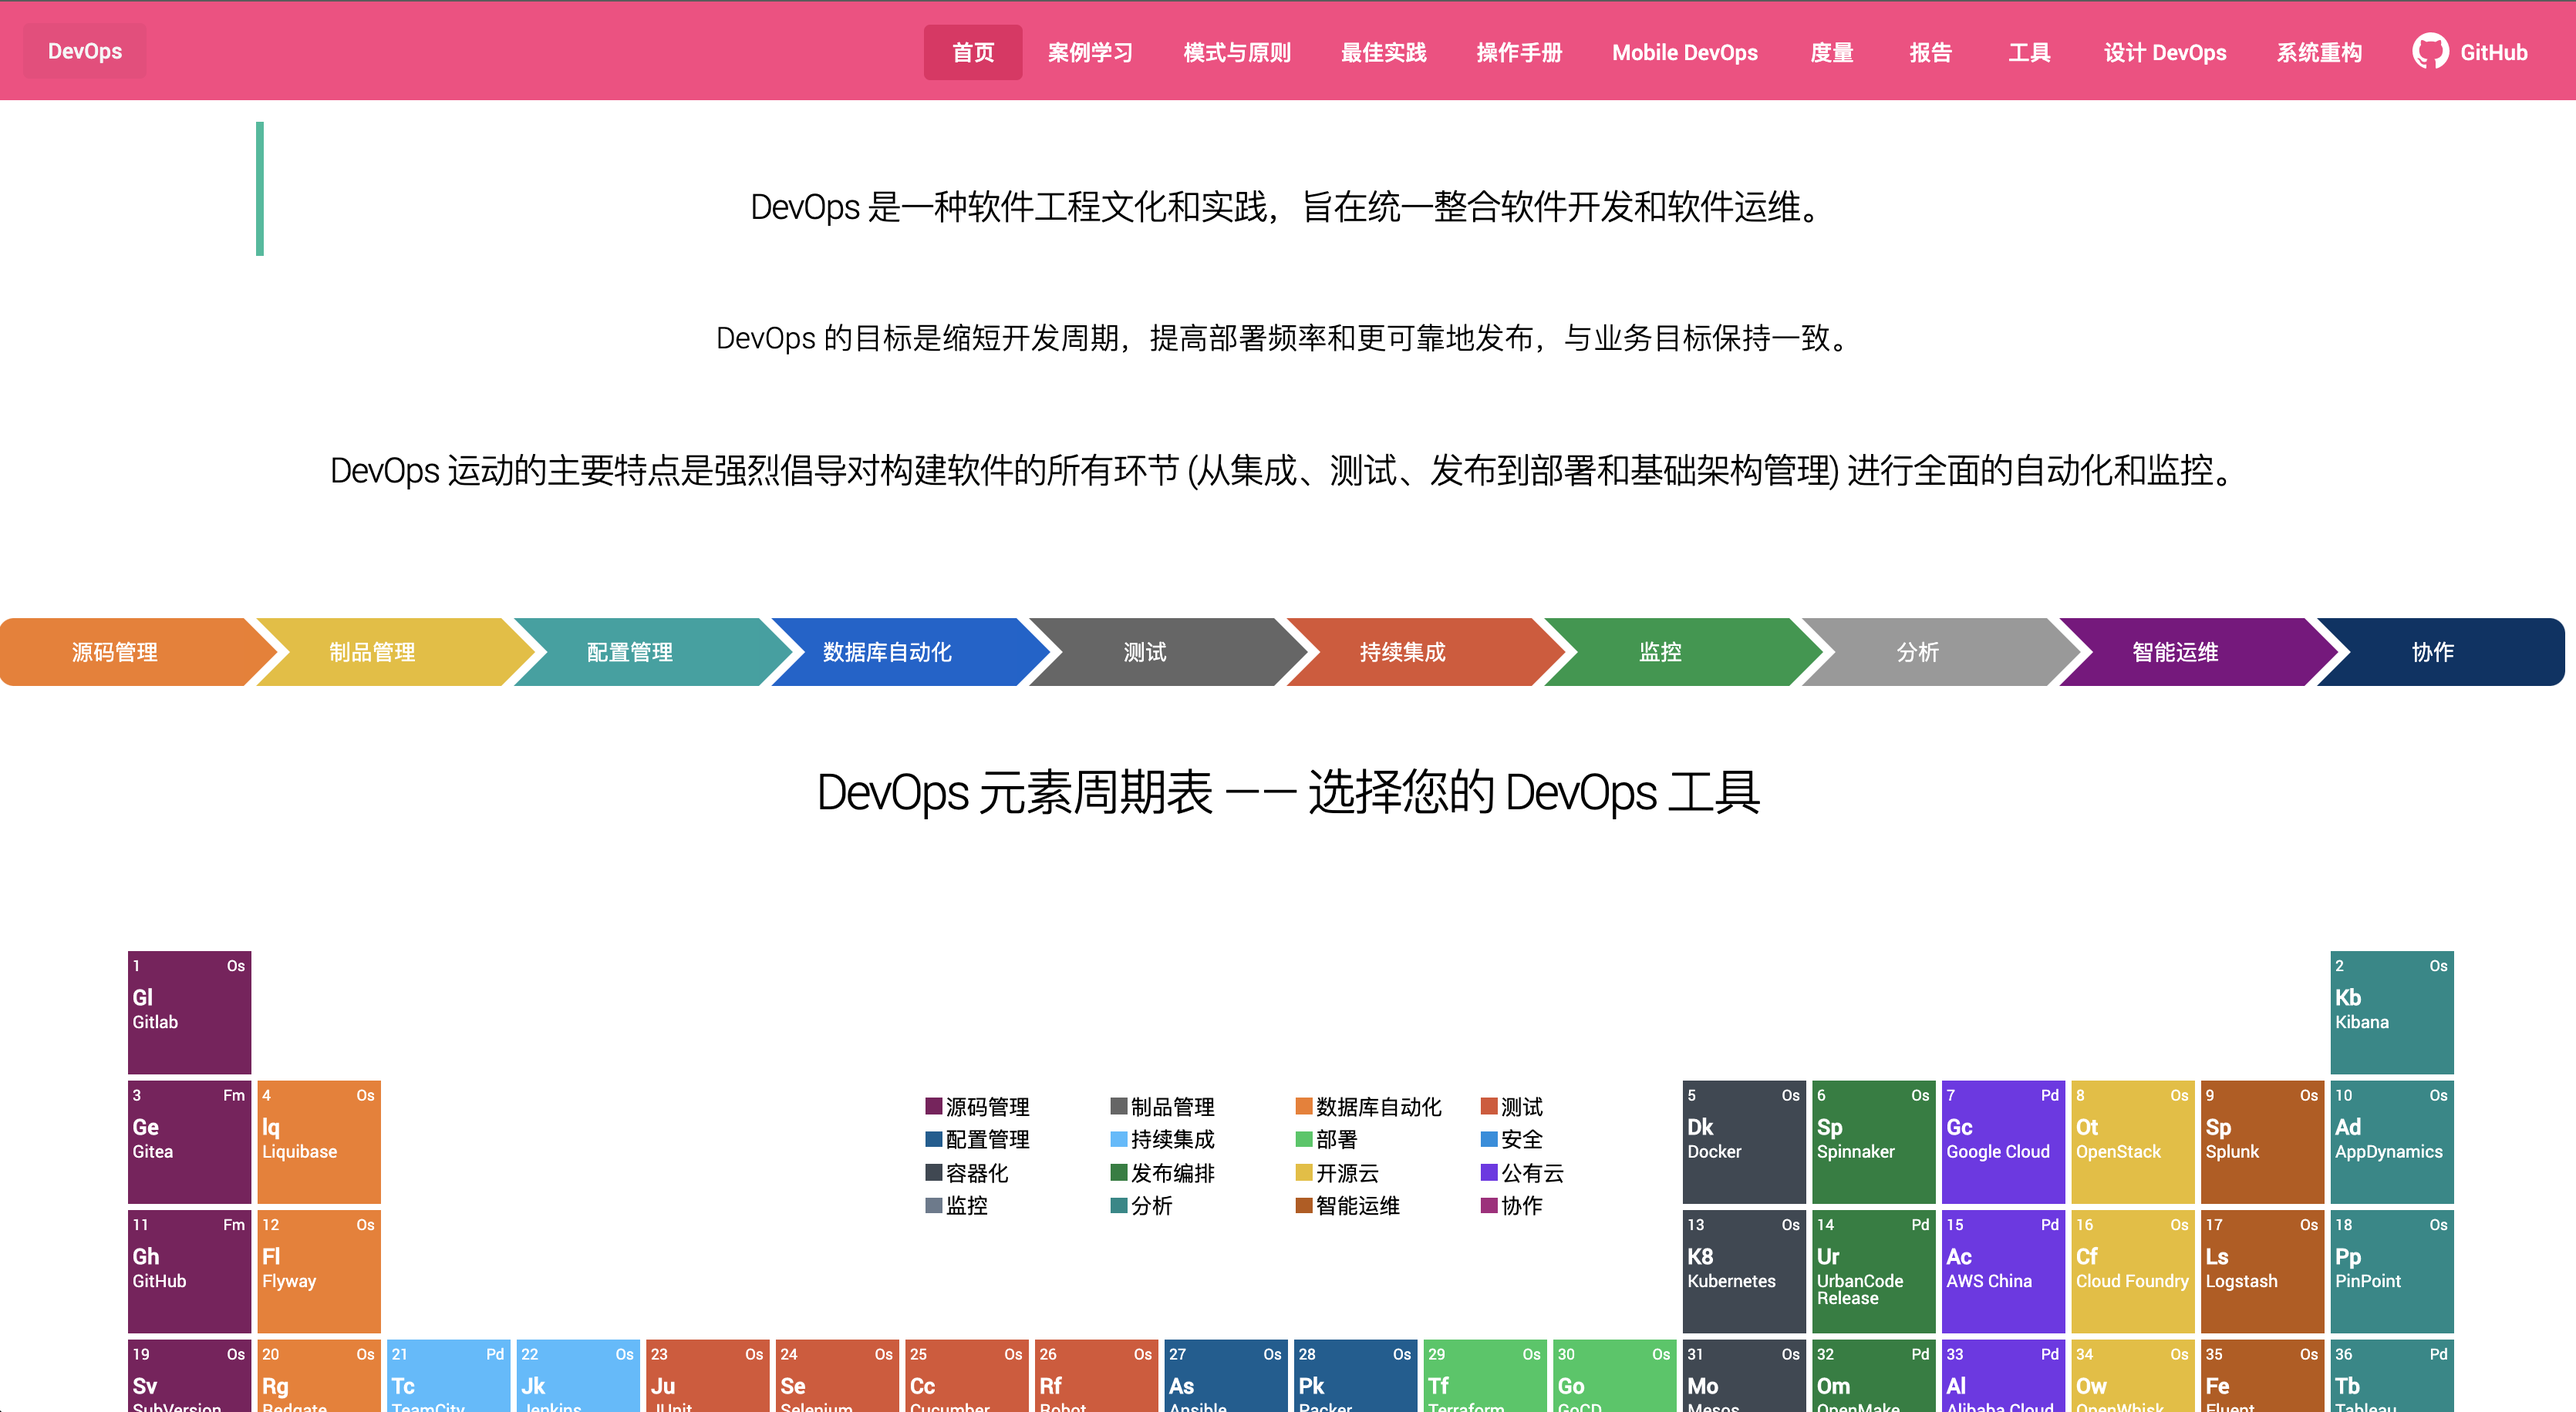
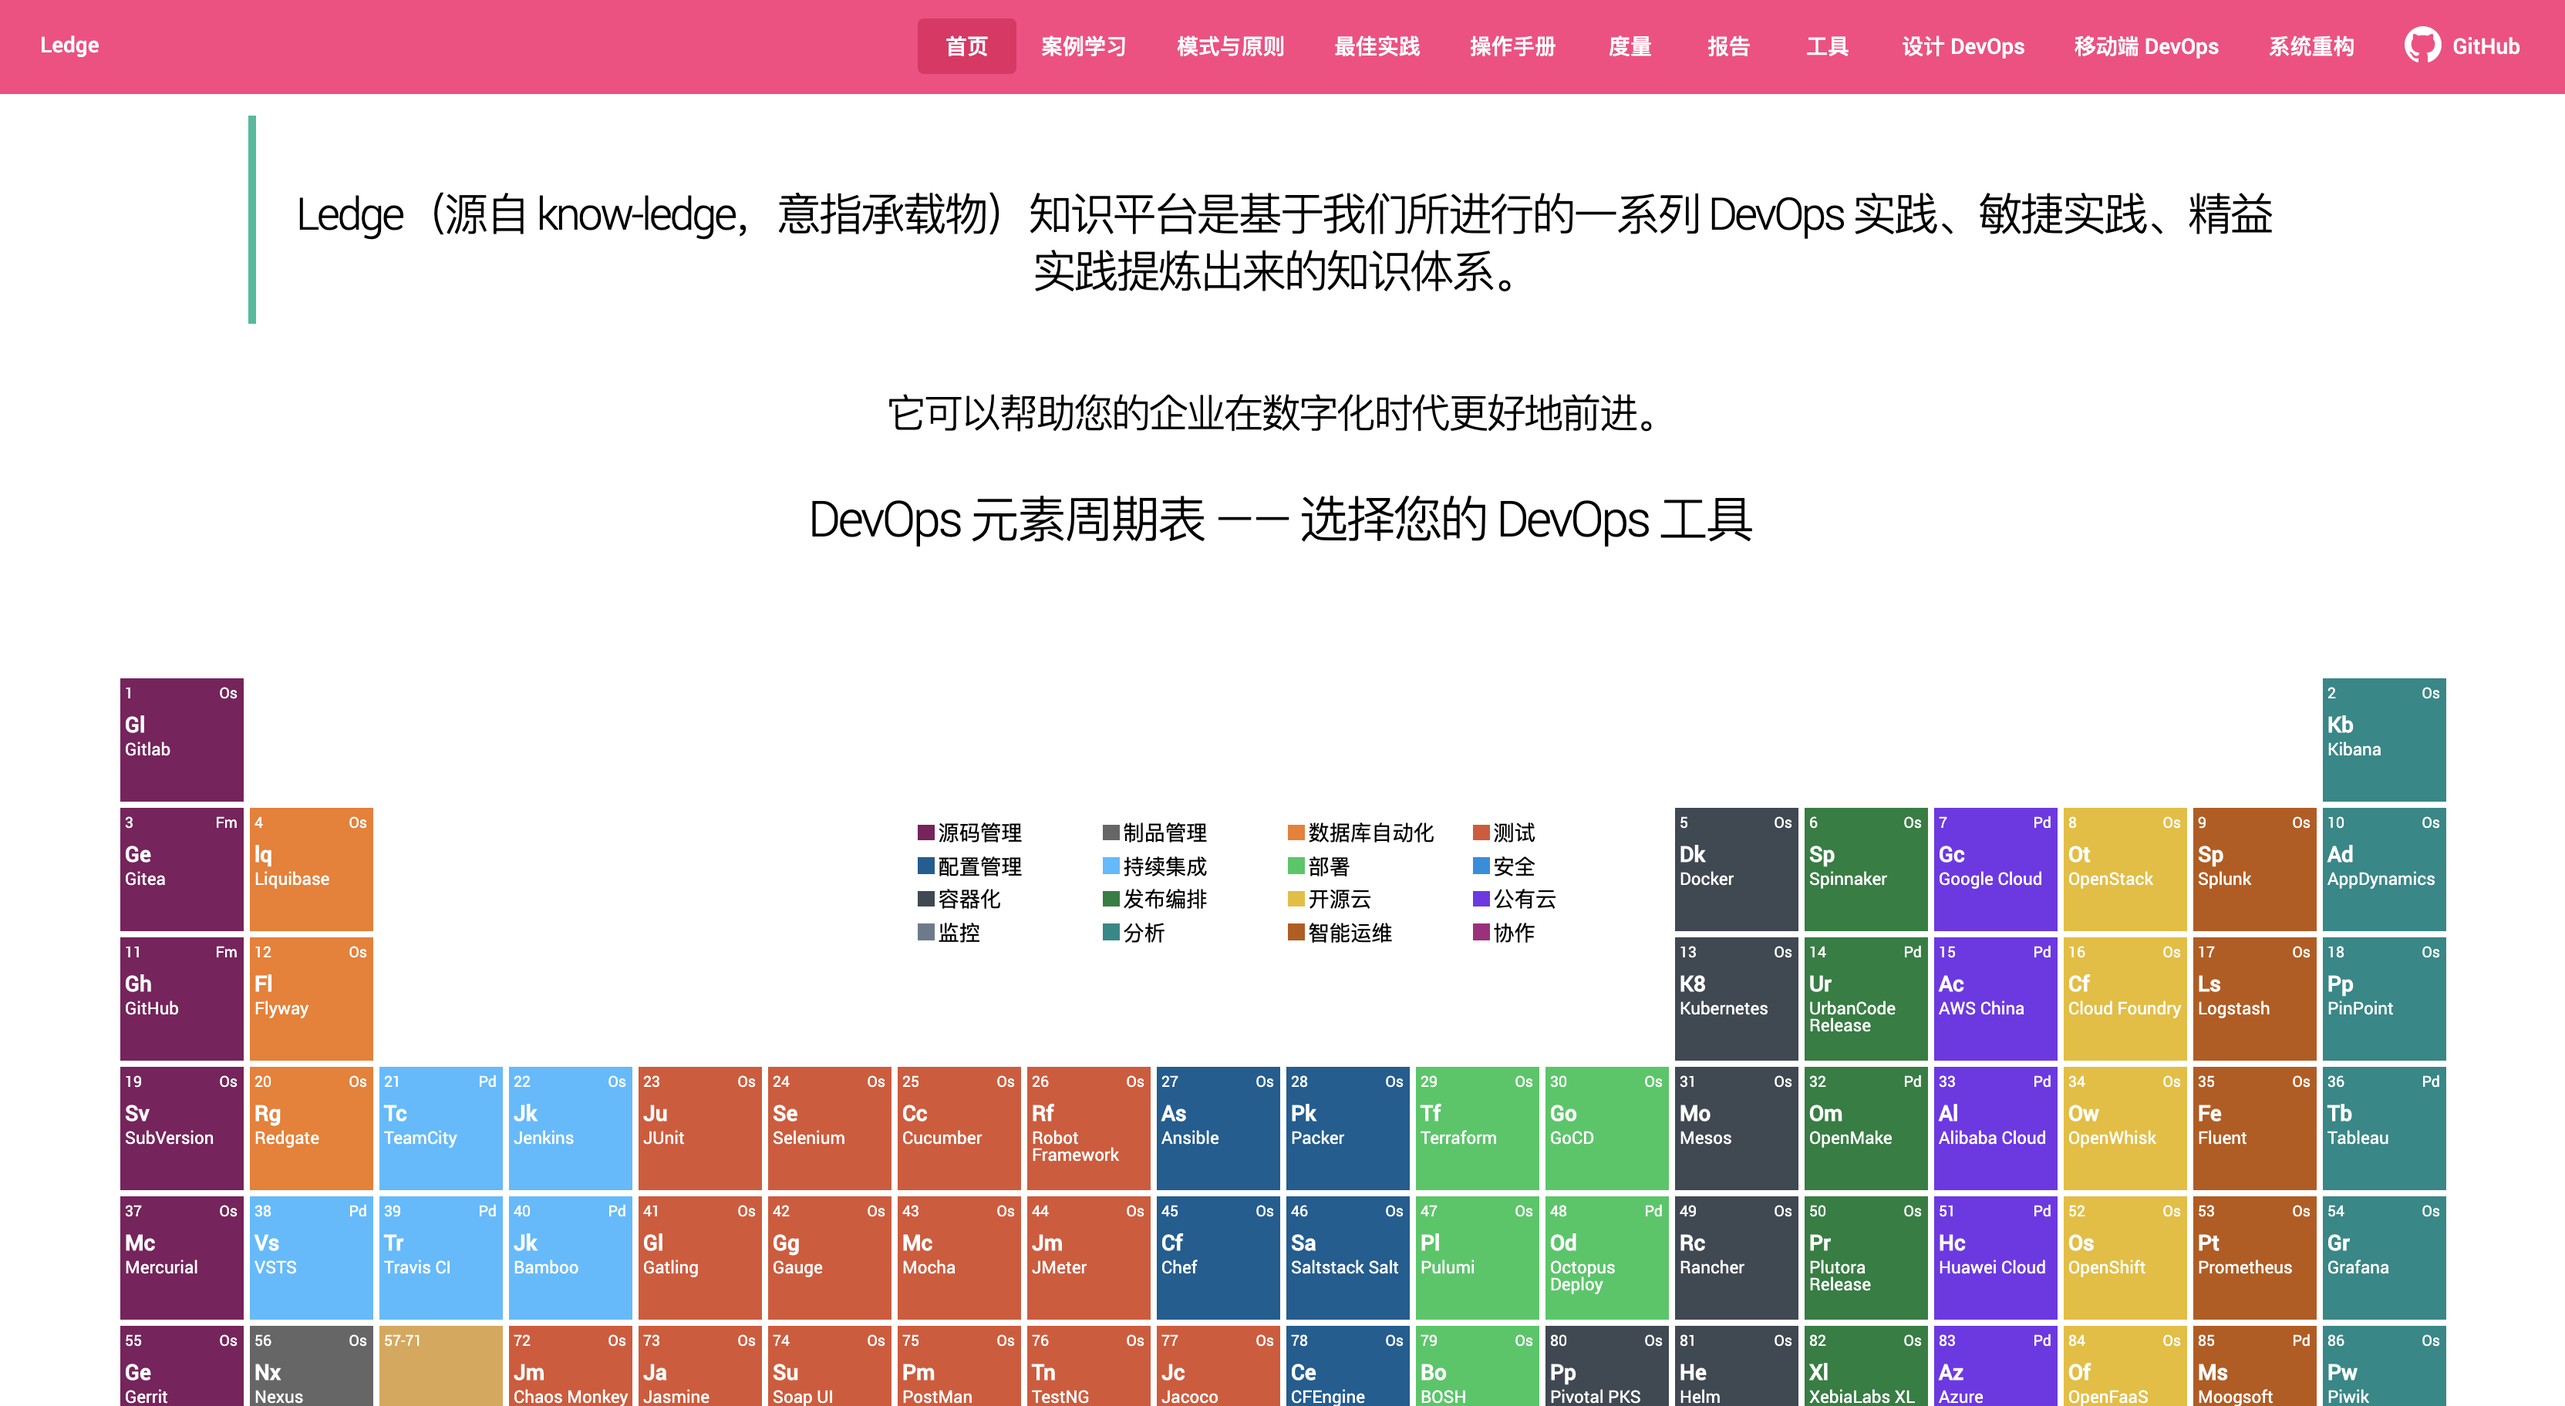
docs: update README

diff --git a/README.md b/README.md
@@ -8,13 +8,14 @@ Ledge （from Know-Ledge，意指承载物）知识平台是基于我们在 Thou
 
  - **工具元素周期表**。帮助您进行数字化时代的 DevOps 工具选型。
  - **DevOps 设计工具**。帮助您设计组织内的 DevOps 流程，涵盖了流程、人、工具、制品等等。
- - **案例学习**。从社区的知识库中，我们总结了传统企业走向 DevOps 的经验，并浓缩到易于使用的内容里。
- - **最佳实践**。我们从海量的 DevOps 内容里，提炼出了一系列的最佳实践，以更好地帮助企业进行 DevOps 实践。
+ - **案例学习**。从社区的知识库中，我们总结了传统企业走向 DevOps 的经验，并浓缩到易于使用的内容和材料中。
+ - **最佳实践**。我们从海量的 DevOps 内容中，提炼出了一系列的最佳实践，以更好地帮助企业进行 DevOps 实践。
  - **模式与原则**。基于我们的实践，我们提炼了位于它背后的模式与原则，帮助个人和组织更好地了解 DevOps 文化。
- - **操作手册**。只凭实践与原则，无法让中小型 IT 团队进行 DevOps 转型，所以我们准备了详实的操作手册，一步步前进。
+ - **操作手册**。只凭实践与原则，无法让中小型 IT 团队进行 DevOps 转型，所以我们准备了详实的操作手册，以帮助您一步步前进。
  - **度量**。KPI - 度量、度量 - KPI、KPI - 度量，帮助您更好地度量 DevOps 转型情况。
  - **报告**。我们尝试从丰富地 DevOps 报告中，提炼出有用的实践和工具。
- - **相关资源**。尽管本平台已经提供了丰富的资源，但是我们相信更多的资源可以帮助您们学习背后的理念。
+ - **Mobile DevOps**。我们相信移动应用的 DevOps 改进，才是大多数公司的挑战。
+ - **工具**。工具，工具，工具是最好的生产力，工具比人的记忆力更加可靠。
 
 ## Contribution
 

diff --git a/src/assets/docs/mobile.md b/src/assets/docs/mobile.md
@@ -1,1 +1,7 @@
-# Mobile
+# Mobile DevOps
+
+## 持续集成
+
+## 测试
+
+## 发布
